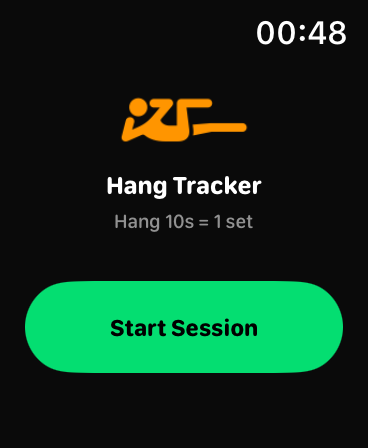
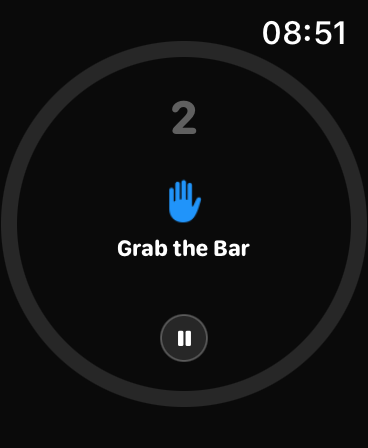
fix(ui): waiting state & pause panel — true watchOS alert vocabulary
Waiting state (user feedback: '不好看'):
- blue icon+text double-block was flat and noisy → icon shrunk to an
  accent, label now WHITE bold (black-background legibility baseline)
- near-invisible track brightened 8%→12% for composition skeleton
- pause control neutral (translucent white) while waiting — orange only
  once counting; dim top counter hidden when reps==0 (no orphan digits)

Pause panel (user feedback: '不好看'):
- saturated orange/red full-bleed pills with black labels read arcade —
  replaced with the true watchOS alert: dark rounded CARD over a 0.55
  dim, translucent gray capsules, white 'Pause' + RED TEXT 'End',
  icons removed (system confirmations are text-only)
- kills the background text bleed-through entirely

diff --git a/FirstWatchApp WatchKit Extension/PullUpTrackerView.swift b/FirstWatchApp WatchKit Extension/PullUpTrackerView.swift
@@ -761,7 +761,7 @@ struct ActiveView: View {
     }
     
     private var ringTrackColor: Color {
-        Color.white.opacity(0.08)
+        Color.white.opacity(0.12)
     }
     
     /// Colour for the holding ring, banded by progress. Semantics go from
@@ -894,14 +894,14 @@ struct ActiveView: View {
                 Group {
                     switch holdState {
                     case .waiting:
-                        VStack(spacing: ringDiameter * 0.028) {
+                        VStack(spacing: ringDiameter * 0.03) {
                             Image(systemName: "hand.raised.fill")
-                                .font(.system(size: waitingIconSize, weight: .semibold))
+                                .font(.system(size: waitingIconSize * 0.82, weight: .medium))
                                 .foregroundColor(.blue)
                                 .scaleEffect(waitingPulse)
                             Text(phaseLabelText)
-                                .font(.system(size: phaseLabelSize, weight: .bold, design: .rounded))
-                                .foregroundColor(phaseLabelColor)
+                                .font(.system(size: phaseLabelSize * 1.15, weight: .bold, design: .rounded))
+                                .foregroundColor(.white)
                         }
                         .onAppear {
                             guard !reduceMotion else { return }
@@ -959,7 +959,10 @@ struct ActiveView: View {
             }
             .overlay(alignment: .top) {
                 VStack(spacing: 0) {
-                    Text("\(reps)")
+                    if reps == 0 && holdState == .waiting {
+                        EmptyView()
+                    } else {
+                        Text("\(reps)")
                         .font(.system(size: repsValueSize, weight: .bold, design: .rounded))
                         .foregroundColor(repsColor)
                         .monospacedDigit()
@@ -967,6 +970,7 @@ struct ActiveView: View {
                         .contentTransition(.numericText())
                         .animation(reduceMotion ? nil : .spring(response: 0.35, dampingFraction: 0.7), value: reps)
                         .accessibilityLabel("\(reps) sets completed")
+                    }
                 }
                 .padding(.top, topInset)
             }
@@ -995,10 +999,17 @@ struct ActiveView: View {
                         } label: {
                             Image(systemName: "pause.fill")
                                 .font(.system(size: pauseIconSize, weight: .black))
-                                .foregroundColor(.orange)
+                                .foregroundColor(holdState == .waiting ? .white : .orange)
                                 .frame(width: pauseButtonSize, height: pauseButtonSize)
-                                .background(Circle().fill(Color.orange.opacity(0.18)))
-                                .overlay(Circle().stroke(Color.orange.opacity(0.5), lineWidth: 1))
+                                .background(Circle().fill(
+                                    holdState == .waiting
+                                        ? Color.white.opacity(0.12)
+                                        : Color.orange.opacity(0.18)))
+                                .overlay(Circle().stroke(
+                                    holdState == .waiting
+                                        ? Color.white.opacity(0.25)
+                                        : Color.orange.opacity(0.5),
+                                    lineWidth: 1))
                         }
                         .buttonStyle(PlainButtonStyle())
                         .accessibilityLabel("Pause or end")
@@ -1061,29 +1072,30 @@ struct ActiveView: View {
                                           buttonSize: CGFloat,
                                           labelSize: CGFloat) -> some View {
         ZStack {
-            Color.black.opacity(0.78)
+            Color.black.opacity(0.55)
                 .ignoresSafeArea()
                 .onTapGesture { dismissPauseMenu() }
 
-            // System-alert vocabulary (HIG Buttons): a stack of full-width,
-            // equal-height tinted buttons. Orange continues the session;
-            // red finishes it.
-            VStack(spacing: ringDiameter * 0.04) {
+            // True watchOS-alert vocabulary: a dark rounded CARD carrying the
+            // title + buttons (kills background bleed-through), translucent
+            // capsules with white labels; the destructive action is RED TEXT,
+            // not a red fill. No icons — system confirmations are text-only.
+            VStack(spacing: ringDiameter * 0.035) {
                 Text("Pause or End?")
                     .font(.system(size: labelSize * 1.35, weight: .bold, design: .rounded))
                     .foregroundColor(.white)
 
-                VStack(spacing: ringDiameter * 0.03) {
+                VStack(spacing: ringDiameter * 0.026) {
                     Button {
                         dismissPauseMenu()
                         onPause()
                     } label: {
-                        Label("Pause", systemImage: "pause.fill")
-                            .font(.system(size: labelSize * 1.25, weight: .bold, design: .rounded))
+                        Text("Pause")
+                            .font(.system(size: labelSize * 1.3, weight: .bold, design: .rounded))
+                            .foregroundColor(.white)
                             .frame(maxWidth: .infinity)
                             .frame(height: buttonSize * 0.72)
-                            .background(Color.orange)
-                            .foregroundStyle(.black)
+                            .background(Color.white.opacity(0.18))
                             .clipShape(Capsule())
                     }
                     .buttonStyle(PlainButtonStyle())
@@ -1093,19 +1105,23 @@ struct ActiveView: View {
                         dismissPauseMenu()
                         onEnd()
                     } label: {
-                        Label("End", systemImage: "stop.fill")
-                            .font(.system(size: labelSize * 1.25, weight: .bold, design: .rounded))
+                        Text("End")
+                            .font(.system(size: labelSize * 1.3, weight: .bold, design: .rounded))
+                            .foregroundColor(.red)
                             .frame(maxWidth: .infinity)
                             .frame(height: buttonSize * 0.72)
-                            .background(Color.red)
-                            .foregroundStyle(.white)
+                            .background(Color.white.opacity(0.18))
                             .clipShape(Capsule())
                     }
                     .buttonStyle(PlainButtonStyle())
                     .accessibilityLabel("End session")
                 }
             }
-            .padding(.horizontal, ringDiameter * 0.09)
+            .padding(.horizontal, ringDiameter * 0.055)
+            .padding(.vertical, ringDiameter * 0.05)
+            .background(RoundedRectangle(cornerRadius: ringDiameter * 0.1)
+                .fill(Color(white: 0.10)))
+            .padding(.horizontal, ringDiameter * 0.06)
             .accessibilityElement(children: .contain)
         }
     }
